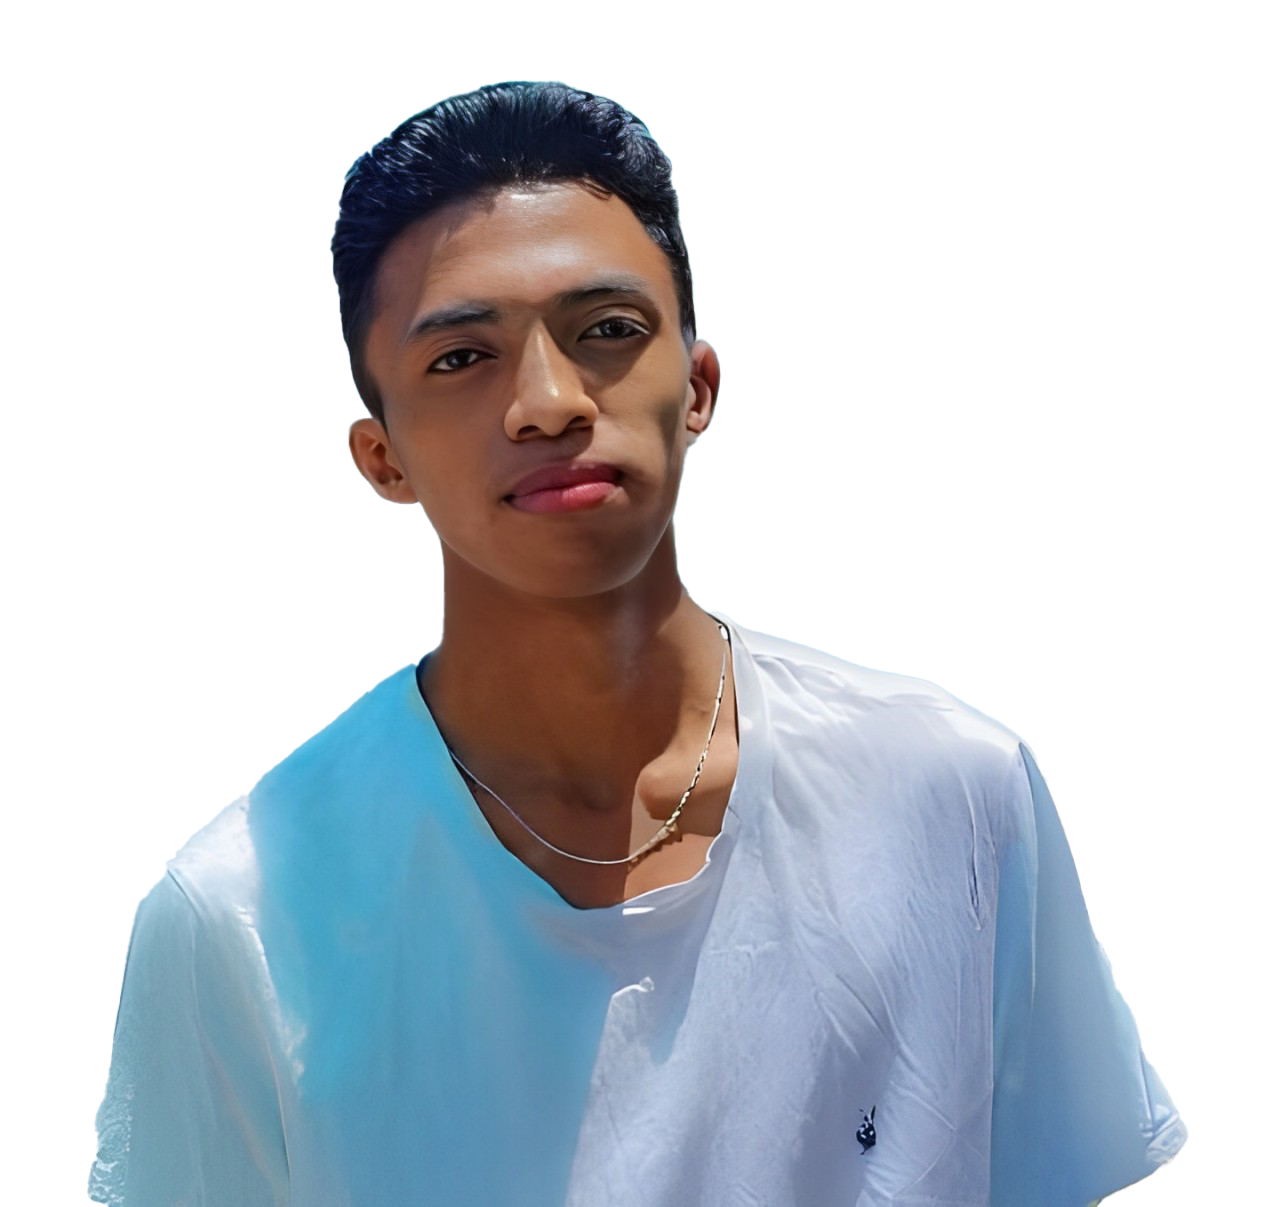
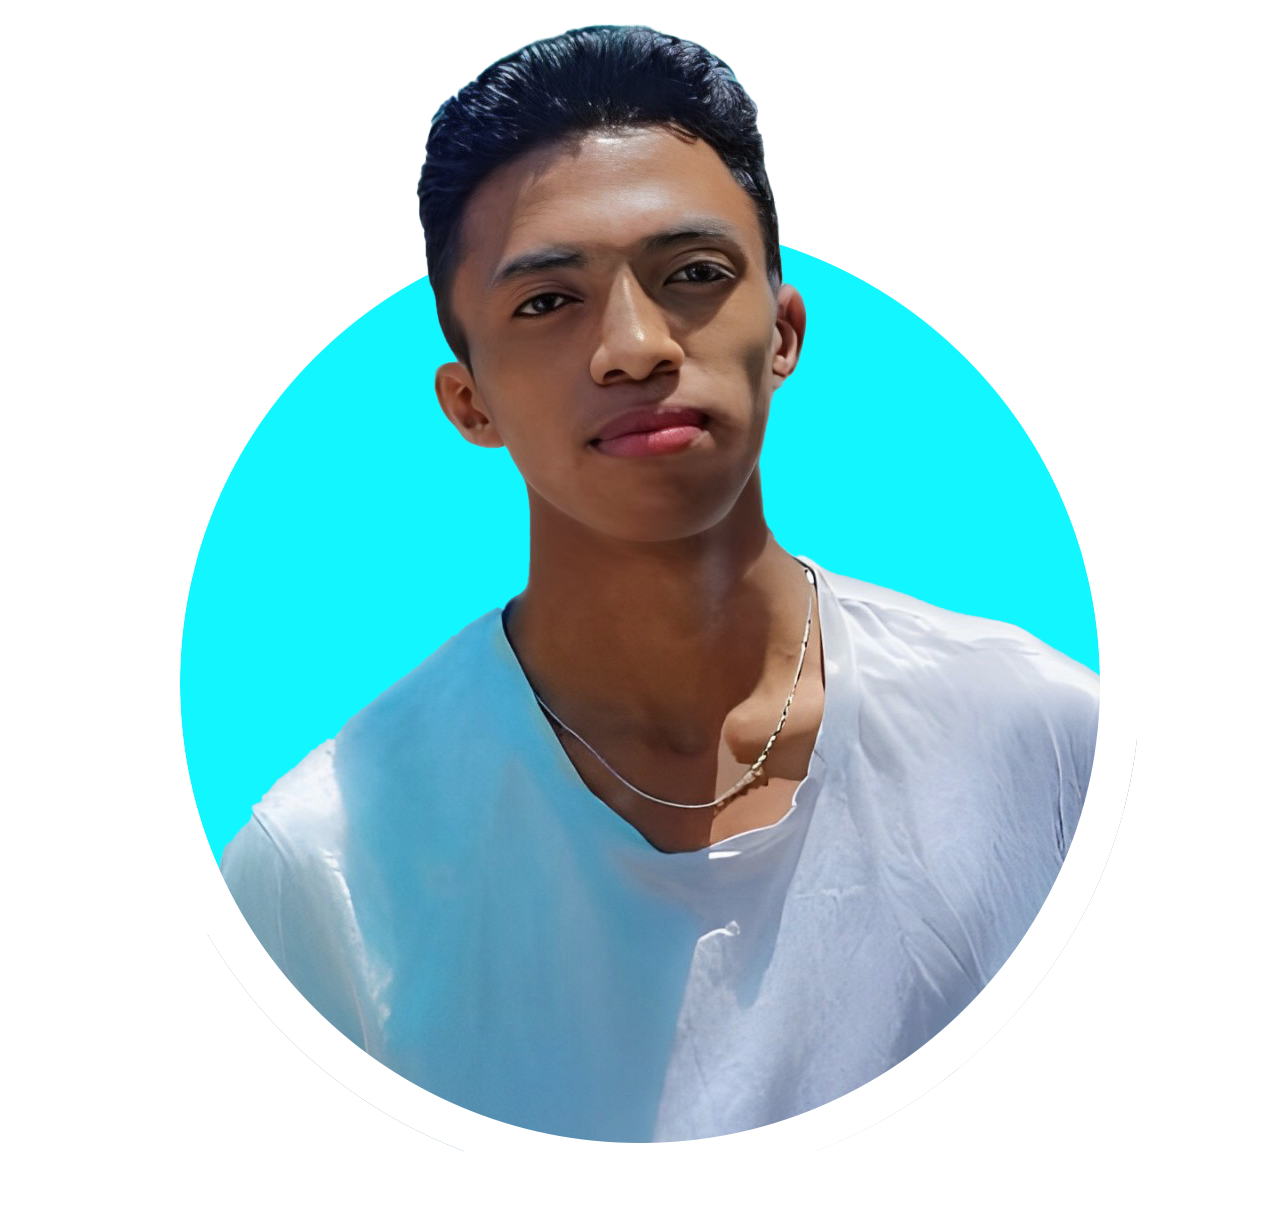
add circle image home with ps

diff --git a/index.html b/index.html
@@ -72,7 +72,7 @@
 
             <div class="home-image load-animation">
                 <div class="img-box">
-                    <img src="img/Fifaa3.png" alt="fifa PNG">
+                    <img src="img/Fifaa4.png" alt="fifa PNG">
                 </div>
             </div>
 
